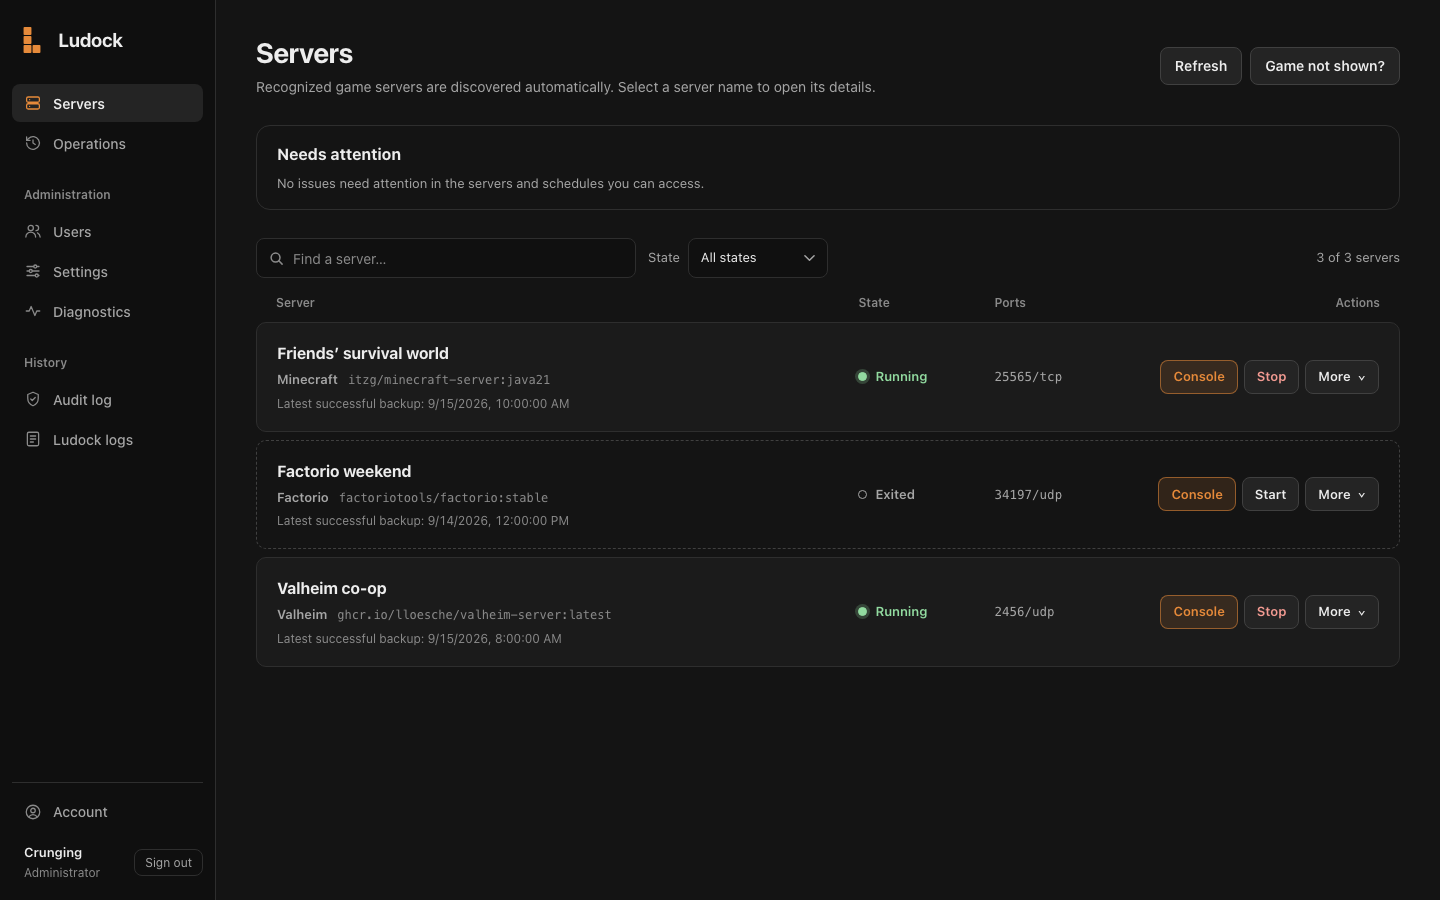
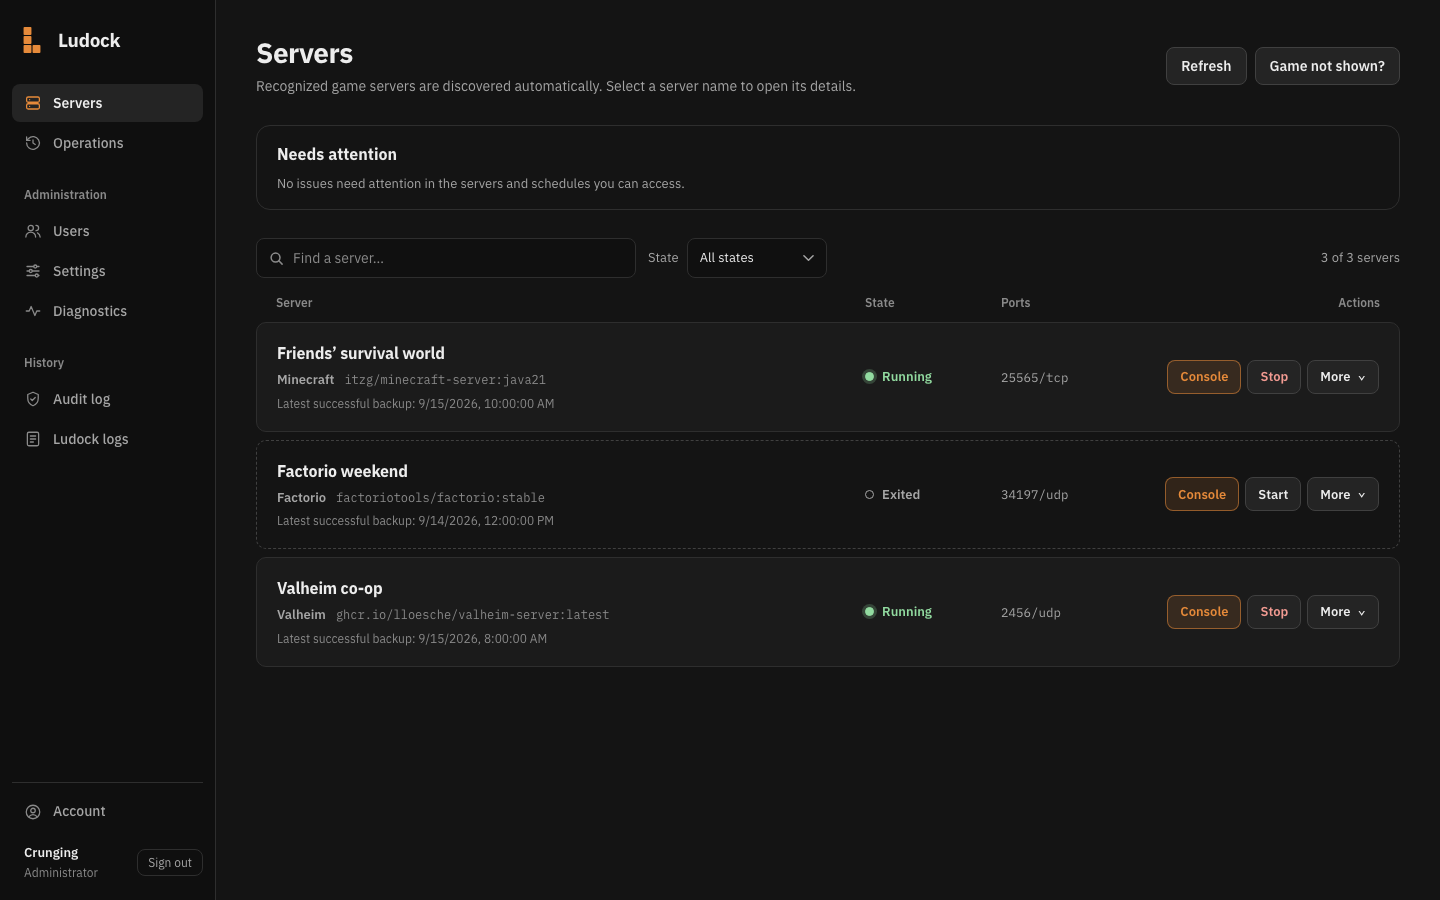
feat(frontend): bundle IBM Plex Sans and IBM Plex Mono
Ship the panel's typefaces instead of relying on whatever each OS has, so it
looks the same everywhere. The fonts come from Fontsource (OFL 1.1) and are
registered with the FontFace API so the bundler emits them as hashed files;
CSS url() references would have inlined every subset into the main
stylesheet. Only Latin and Latin Extended are registered, and each file
loads only when text needs it.

The console terminal starts on the system mono stack and switches to Plex
Mono once it loads, because xterm measures glyph width when it opens.

diff --git a/packages/frontend/src/fonts.ts b/packages/frontend/src/fonts.ts
@@ -1,0 +1,34 @@
+// IBM Plex Sans and IBM Plex Mono (SIL Open Font License 1.1), from Fontsource.
+// Importing the files makes the bundler emit them as hashed assets; CSS url()
+// references would be inlined into the main stylesheet instead. Only Latin and
+// Latin Extended are registered; other scripts use the system fallbacks.
+import sansLatin from "@fontsource-variable/ibm-plex-sans/files/ibm-plex-sans-latin-wght-normal.woff2";
+import sansLatinExt from "@fontsource-variable/ibm-plex-sans/files/ibm-plex-sans-latin-ext-wght-normal.woff2";
+import mono400Latin from "@fontsource/ibm-plex-mono/files/ibm-plex-mono-latin-400-normal.woff2";
+import mono400LatinExt from "@fontsource/ibm-plex-mono/files/ibm-plex-mono-latin-ext-400-normal.woff2";
+import mono600Latin from "@fontsource/ibm-plex-mono/files/ibm-plex-mono-latin-600-normal.woff2";
+import mono600LatinExt from "@fontsource/ibm-plex-mono/files/ibm-plex-mono-latin-ext-600-normal.woff2";
+
+const LATIN = "U+0000-00FF, U+0131, U+0152-0153, U+02BB-02BC, U+02C6, U+02DA, U+02DC, U+0304, U+0308, U+0329, U+2000-206F, U+20AC, U+2122, U+2191, U+2193, U+2212, U+2215, U+FEFF, U+FFFD";
+const LATIN_EXT = "U+0100-02BA, U+02BD-02C5, U+02C7-02CC, U+02CE-02D7, U+02DD-02FF, U+0304, U+0308, U+0329, U+1D00-1DBF, U+1E00-1E9F, U+1EF2-1EFF, U+2020, U+20A0-20AB, U+20AD-20C0, U+2113, U+2C60-2C7F, U+A720-A7FF";
+
+const faces: [family: string, source: string, weight: string, unicodeRange: string][] = [
+  ["IBM Plex Sans", sansLatin, "100 700", LATIN],
+  ["IBM Plex Sans", sansLatinExt, "100 700", LATIN_EXT],
+  ["IBM Plex Mono", mono400Latin, "400", LATIN],
+  ["IBM Plex Mono", mono400LatinExt, "400", LATIN_EXT],
+  ["IBM Plex Mono", mono600Latin, "600", LATIN],
+  ["IBM Plex Mono", mono600LatinExt, "600", LATIN_EXT],
+];
+
+/** Registers the bundled faces; like @font-face, each file loads only when text needs it. */
+export function registerFonts() {
+  if (typeof FontFace === "undefined") return;
+  for (const [family, source, weight, unicodeRange] of faces) {
+    document.fonts.add(new FontFace(family, `url(${JSON.stringify(source)}) format("woff2")`, {
+      weight,
+      unicodeRange,
+      display: "swap",
+    }));
+  }
+}

diff --git a/packages/frontend/src/pages/Console.tsx b/packages/frontend/src/pages/Console.tsx
@@ -147,6 +147,7 @@ function ConsoleSession({ containerId, user }: {
     if (!termRef.current) return;
     const colors = getComputedStyle(document.documentElement);
     const background = colors.getPropertyValue("--bg-terminal").trim() || "#0c0c0c";
+    const fontFamily = colors.getPropertyValue("--font-mono").trim() || "monospace";
     const terminal = new Terminal({
       theme: {
         background,
@@ -171,7 +172,8 @@ function ConsoleSession({ containerId, user }: {
         brightCyan: "#67e8f9",
         brightWhite: "#ededed",
       },
-      fontFamily: colors.getPropertyValue("--font-mono").trim() || "monospace",
+      // xterm measures glyph width once, so start on a font that is already present.
+      fontFamily: colors.getPropertyValue("--font-mono-system").trim() || "monospace",
       fontSize: 14,
       lineHeight: 1.4,
       cursorBlink: true,
@@ -191,8 +193,16 @@ function ConsoleSession({ containerId, user }: {
     const observer = typeof ResizeObserver === "undefined" ? null : new ResizeObserver(fit);
     observer?.observe(termRef.current);
     window.addEventListener("resize", fit);
+    // Switch to the bundled mono face after it loads; the option change re-measures.
+    let disposed = false;
+    document.fonts?.load(`14px ${fontFamily}`).then(() => {
+      if (disposed) return;
+      terminal.options.fontFamily = fontFamily;
+      fit();
+    }, () => undefined);
 
     return () => {
+      disposed = true;
       cancelAnimationFrame(initialFit);
       observer?.disconnect();
       window.removeEventListener("resize", fit);

diff --git a/packages/frontend/src/index.css b/packages/frontend/src/index.css
@@ -33,8 +33,10 @@
   --yellow: #e8c46b;
   --on-danger: #2a0f0c;
 
-  --font-sans: system-ui, -apple-system, "Segoe UI", Roboto, "Helvetica Neue", Arial, sans-serif;
-  --font-mono: ui-monospace, "SF Mono", "Cascadia Mono", "JetBrains Mono", Menlo, Consolas, "Liberation Mono", monospace;
+  --font-sans: "IBM Plex Sans", system-ui, -apple-system, "Segoe UI", Roboto, "Helvetica Neue", Arial, sans-serif;
+  --font-mono: "IBM Plex Mono", ui-monospace, "SF Mono", "Cascadia Mono", Menlo, Consolas, "Liberation Mono", monospace;
+  /* The terminal measures glyphs before web fonts load, so it starts here. */
+  --font-mono-system: ui-monospace, "SF Mono", "Cascadia Mono", Menlo, Consolas, "Liberation Mono", monospace;
 
   --radius-lg: 14px;
   --radius: 10px;

diff --git a/packages/frontend/src/main.tsx b/packages/frontend/src/main.tsx
@@ -4,6 +4,9 @@ import "./index.css";
 import App from "./App";
 import { AuthProvider } from "./AuthContext";
 import { NavigationProvider } from "./navigation";
+import { registerFonts } from "./fonts";
+
+registerFonts();
 
 createRoot(document.getElementById("root")!).render(
   <StrictMode>

diff --git a/packages/frontend/src/assets.d.ts b/packages/frontend/src/assets.d.ts
@@ -1,1 +1,5 @@
 declare module "*.css";
+declare module "*.woff2" {
+  const url: string;
+  export default url;
+}
